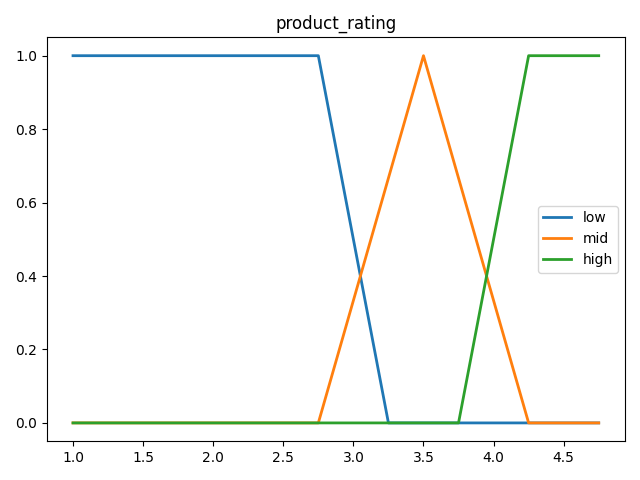
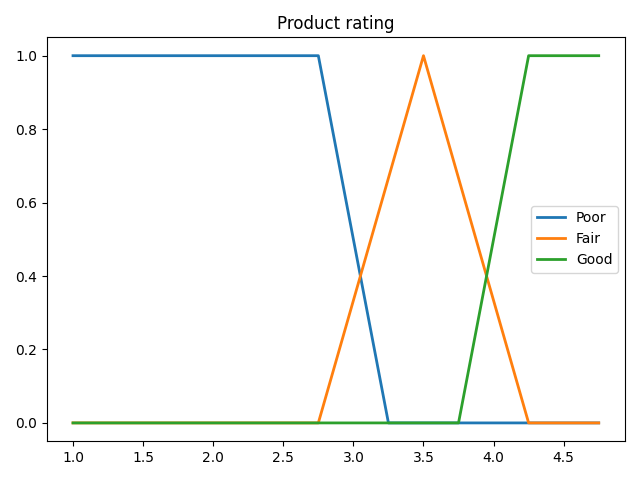
Wip...

diff --git a/src/main.py b/src/main.py
@@ -1,9 +1,13 @@
 from src.fuzzy.InferenceSystem import FuzzyInferenceSystem as Fis
 
 # Inputs--------------------------------------------------------------------------------------------------------------#
-basePrice_usd = 50                                                                                                    #
-pricingTerm_months = 10                                                                                               #
-productRating_stars = 5                                                                                               #
+basePrice_usd = 50
+productLifetime_years = 10
+monthlyActive_users = 10
+thirdParty_integrations = 3
+enterprise_features = 3
+branding_usd = 100
+targetAudienceMeanIncome_usd = 50000
 # Inputs--------------------------------------------------------------------------------------------------------------#
 
 # Initialization of the Fuzzy Inference System
@@ -11,19 +15,54 @@ fuzzyInferenceSystem = Fis()
 
 # Here we declare all the input fuzzy sets and their membership functions (MF)
 # MF types can be 'trapezoidal' or 'triangular'
-pricingTerm_setName = "pricing_term"
+# todo - set ranges
+set1_name = "product_lifetime"
 fuzzyInferenceSystem\
-    .add_set(name=pricingTerm_setName, x_min=1, x_max=12, step=1, x=pricingTerm_months)\
-    .add_subset(name="short", set_name=pricingTerm_setName, membership_range=[-30, -5, 2, 4], mf_type="trapezoidal")\
-    .add_subset(name="mid", set_name=pricingTerm_setName, membership_range=[2, 4, 6, 8], mf_type="trapezoidal")\
-    .add_subset(name="long", set_name=pricingTerm_setName, membership_range=[6, 8, 17, 30], mf_type="trapezoidal")
+    .add_set(name=set1_name, x_min=1, x_max=10, step=1, x=productLifetime_years)\
+    .add_subset(name="early", set_name=set1_name, membership_range=[-30, -5, 2, 4], mf_type="trapezoidal")\
+    .add_subset(name="mid", set_name=set1_name, membership_range=[2, 4, 6, 8], mf_type="trapezoidal")\
+    .add_subset(name="mature", set_name=set1_name, membership_range=[6, 8, 17, 30], mf_type="trapezoidal")
 
-productRating_setName = "product_rating"
+# todo - set ranges
+set2_name = "monthly_active_users"
 fuzzyInferenceSystem\
-    .add_set(name=productRating_setName, x_min=1, x_max=5, step=0.25, x=productRating_stars)\
-    .add_subset(name="low", set_name=productRating_setName, membership_range=[-20, -20, 2.75, 3.25], mf_type="trapezoidal")\
-    .add_subset(name="mid", set_name=productRating_setName, membership_range=[2.75, 3.5, 4.25], mf_type="triangular")\
-    .add_subset(name="high", set_name=productRating_setName, membership_range=[3.75, 4.25, 20, 20], mf_type="trapezoidal")
+    .add_set(name=set2_name, x_min=1, x_max=10, step=1, x=monthlyActive_users)\
+    .add_subset(name="low", set_name=set2_name, membership_range=[-30, -5, 2, 4], mf_type="trapezoidal")\
+    .add_subset(name="mid", set_name=set2_name, membership_range=[2, 4, 6, 8], mf_type="trapezoidal")\
+    .add_subset(name="high", set_name=set2_name, membership_range=[6, 8, 17, 30], mf_type="trapezoidal")
+
+# todo - set ranges
+set3_name = "third_party_integrations"
+fuzzyInferenceSystem\
+    .add_set(name=set3_name, x_min=1, x_max=10, step=1, x=thirdParty_integrations)\
+    .add_subset(name="low", set_name=set3_name, membership_range=[-30, -5, 2, 4], mf_type="trapezoidal")\
+    .add_subset(name="mid", set_name=set3_name, membership_range=[2, 4, 6, 8], mf_type="trapezoidal")\
+    .add_subset(name="high", set_name=set3_name, membership_range=[6, 8, 17, 30], mf_type="trapezoidal")
+
+# todo - set ranges
+set4_name = "enterprise_features"
+fuzzyInferenceSystem\
+    .add_set(name=set4_name, x_min=1, x_max=10, step=1, x=enterprise_features)\
+    .add_subset(name="low", set_name=set4_name, membership_range=[-30, -5, 2, 4], mf_type="trapezoidal")\
+    .add_subset(name="mid", set_name=set4_name, membership_range=[2, 4, 6, 8], mf_type="trapezoidal")\
+    .add_subset(name="high", set_name=set4_name, membership_range=[6, 8, 17, 30], mf_type="trapezoidal")
+
+# todo - set ranges
+set5_name = "branding"
+fuzzyInferenceSystem\
+    .add_set(name=set5_name, x_min=1, x_max=10, step=1, x=branding_usd)\
+    .add_subset(name="budget", set_name=set5_name, membership_range=[-30, -5, 2, 4], mf_type="trapezoidal")\
+    .add_subset(name="value", set_name=set5_name, membership_range=[2, 4, 6, 8], mf_type="trapezoidal")\
+    .add_subset(name="premium", set_name=set5_name, membership_range=[6, 8, 17, 30], mf_type="trapezoidal")
+
+# todo - set ranges
+set7_name = "target_audience_mean_income"
+fuzzyInferenceSystem\
+    .add_set(name=set7_name, x_min=1, x_max=10, step=1, x=targetAudienceMeanIncome_usd)\
+    .add_subset(name="low", set_name=set7_name, membership_range=[-30, -5, 2, 4], mf_type="trapezoidal")\
+    .add_subset(name="mid", set_name=set7_name, membership_range=[2, 4, 6, 8], mf_type="trapezoidal")\
+    .add_subset(name="high", set_name=set7_name, membership_range=[6, 8, 17, 30], mf_type="trapezoidal")
+
 
 # Here we declare the output fuzzy set which is the profit margin suggestion. We set a minimum margin of 10% and a
 # maximum margin of 300%, we also map the five trapezoidal shaped subsets accordingly.
@@ -41,13 +80,16 @@ fuzzyInferenceSystem.plot_sets()
 # Here we define the rule base, each rule has a name for identification and the corresponding output subset. The rule
 # list stores all the input subsets that lead to that output subset. That list is populated by strings that are composed
 # by the name of the fuzzy set, and it's subset separated by a dot character. This way the list of rules is readable.
-fuzzyInferenceSystem\
-    .add_rule(name="Rule#1", out_subset="mid", rules_list=["pricing_term.short"])\
-    .add_rule(name="Rule#2", out_subset="little", rules_list=["pricing_term.mid"])\
-    .add_rule(name="Rule#3", out_subset="slim", rules_list=["pricing_term.long"])\
-    .add_rule(name="Rule#4", out_subset="slim", rules_list=["product_rating.low"])\
-    .add_rule(name="Rule#5", out_subset="little", rules_list=["product_rating.mid"])\
-    .add_rule(name="Rule#6", out_subset="mid", rules_list=["product_rating.high"])
+rule_list = [
+    ["Rule#1", "little",    ["product_lifetime.early"]],
+    ["Rule#2", "slim",      ["product_lifetime.early", "branding.budget"]],
+    ["Rule#3", "slim",      ["product_lifetime.early", "target_audience_mean_income.low"]],
+    ["Rule#4", "little",    ["product_lifetime.early", "branding.value", "target_audience_mean_income.mid"]],
+    ["Rule#5", "mid",       ["product_lifetime.early", "branding.premium", "target_audience_mean_income.high"]],
+    ["Rule#6", "little",    ["product_lifetime.mid", "monthly_active_users.low"]],
+]
+for rule_item in rule_list:
+    fuzzyInferenceSystem.add_rule(name=rule_item[0], out_subset=rule_item[1], rules_list=rule_item[2])
 
 # Run a centroid defuzzification method to get a crisp output. Other methods can be:
 # 'bisector': bisector of area
@@ -57,6 +99,6 @@ fuzzyInferenceSystem\
 outputValue_crisp = fuzzyInferenceSystem.defuzzify(defuzzification_method='centroid')
 
 # Print out the results
-print(f"Base Price: ${basePrice_usd}")
+print(f"Base Price: ${basePrice_usd}/month")
 print(f"Profit margin: %{outputValue_crisp * 100}")
-print(f"Suggested Price: ${(basePrice_usd + (basePrice_usd * outputValue_crisp)):.2f}")
+print(f"Suggested Price: ${(basePrice_usd + (basePrice_usd * outputValue_crisp)):.2f}/month")

diff --git a/src/fuzzy/InferenceSystem.py b/src/fuzzy/InferenceSystem.py
@@ -6,6 +6,7 @@ import skfuzzy.membership as mf
 from src.fuzzy.Set import FuzzySet
 from src.fuzzy.Rule import FuzzyRule
 from src.fuzzy.Subset import FuzzySubset
+from src.helpers.Global import LabelHelper as Lh
 
 
 def plot_output(out_set: FuzzySet, out_margin: float, defuzzified: float, result: [float]):
@@ -21,14 +22,14 @@ def plot_output(out_set: FuzzySet, out_margin: float, defuzzified: float, result
             subset.membership_range,
             colors[color_index],
             linestyle='--',
-            label=subset.name
+            label=Lh.snake_case_to_label(subset.name)
         )
         color_index += 1
 
     ax0.fill_between(out_set.x_range, risk0, out_margin, facecolor='Orange', alpha=0.7)
     ax0.plot([defuzzified, defuzzified], [0, result], 'k', linewidth=3, alpha=0.9)
 
-    ax0.set_title('Output Margin Area')
+    ax0.set_title('Output margin area')
     plt.tight_layout()
     ax0.legend()
     plt.savefig(

diff --git a/src/fuzzy/Set.py b/src/fuzzy/Set.py
@@ -2,6 +2,7 @@ import os
 import numpy as np
 import matplotlib.pyplot as plt
 from src.fuzzy.Subset import FuzzySubset
+from src.helpers.Global import LabelHelper as Lh
 
 
 class FuzzySet:
@@ -17,6 +18,9 @@ class FuzzySet:
         return self
 
     def plot(self):
+        if self.name != "product_lifetime":  # todo - remove
+            return self
+
         plots_dir_path = os.path.abspath("../plots")
         fig, ax0 = plt.subplots()
 
@@ -25,10 +29,12 @@ class FuzzySet:
                 self.x_range,
                 subset.membership_range,
                 linewidth=2,
-                label=subset.name
+                label=Lh.snake_case_to_label(subset.name)
             )
 
-        ax0.set_title(self.name)
+        ax0.set_title(
+            Lh.snake_case_to_label(self.name)
+        )
         ax0.legend()
         plt.tight_layout()
         plt.savefig(

diff --git a/src/helpers/Global.py b/src/helpers/Global.py
@@ -1,0 +1,5 @@
+class LabelHelper:
+
+    @staticmethod
+    def snake_case_to_label(snake_case_label: str) -> str:
+        return snake_case_label.replace("_", " ").capitalize()

diff --git a/README.md b/README.md
@@ -16,12 +16,14 @@ The system follows a MISO (Multi Input Single Output) structure, consists of X r
 
 Listed below are all the fuzzy sets that we use in our system. For our purposes we used only `trapezoidal` and `triangular` membership functions to represent each of the subsets.
 
-* Pricing term (short, mid, long)
-* Monthly active users (low, mid, high)
-* Daily usage hours (low, mid, high)
-* Monthly net positive feedback (negative, low, mid, high)
-* Product market GDP (low, mid, high)
-* ...
+* [Value-based pricing article](https://www.smartkarrot.com/resources/blog/value-based-pricing/)
+  * Product age (early, mid, mature)
+  * Monthly active users (low, mid, high)
+  * Third party integrations (low, mid, high)
+  * Enterprise features (low, mid, high)
+  * Branding (budget, value, premium)
+  * Product rating (poor, fair, good)
+  * Target audience mean income (low, mid, high)
 
 ### Fuzzification
 
